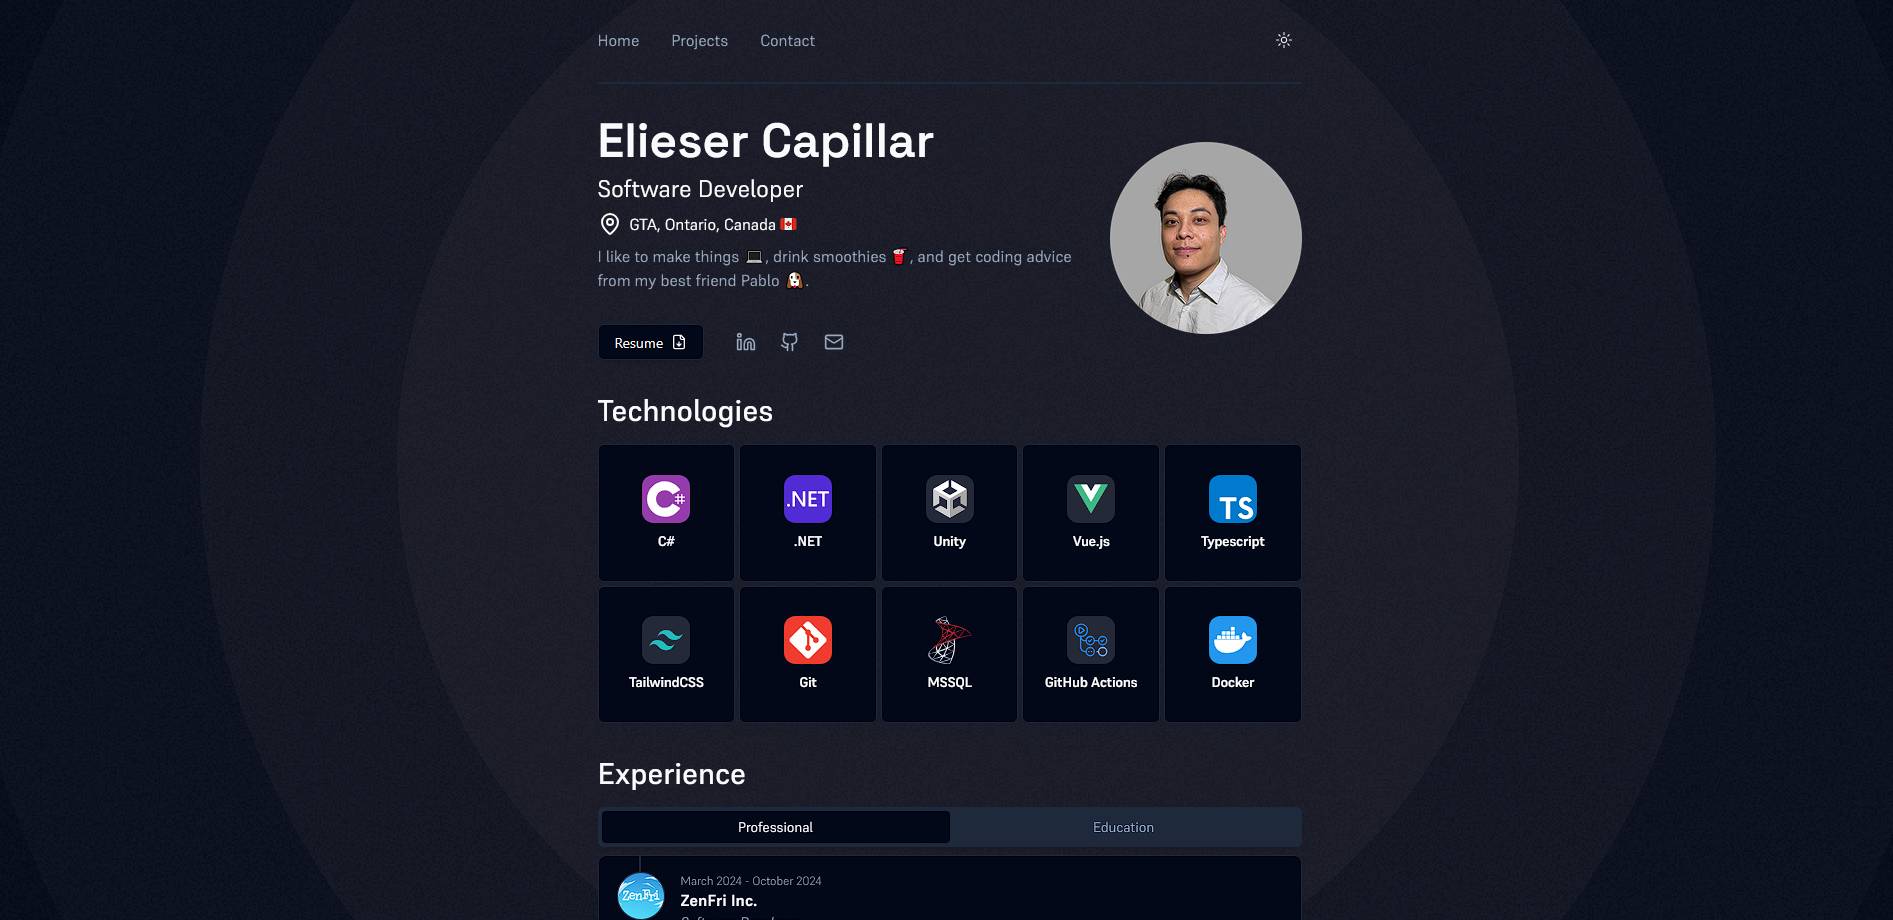
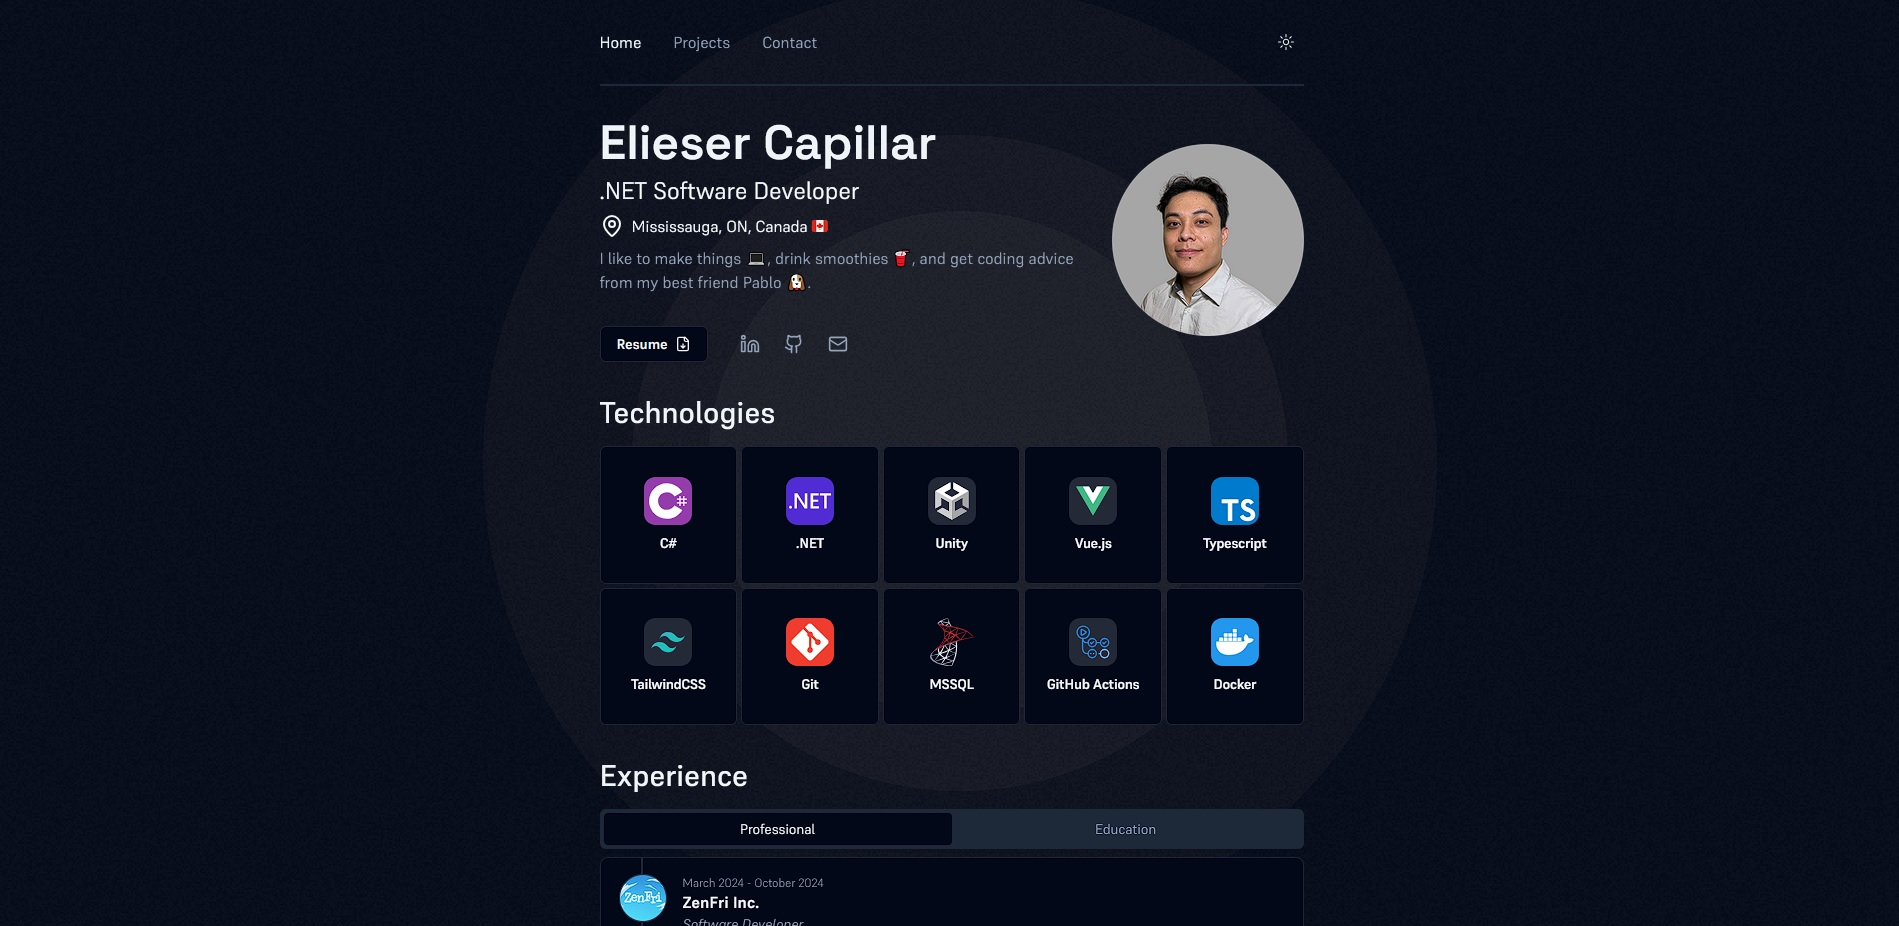
Updated location, and portfolio.png

diff --git a/src/components/HeroSection.vue b/src/components/HeroSection.vue
@@ -7,7 +7,7 @@
                     <h2 class="pt-2 text-2xl">.NET Software Developer</h2>
                     <div class="flex flex-row pt-2">
                         <Icon icon="lucide:map-pin" class="w-6 h-6"/>
-                        <p class="ml-2 text-md">Mississauga, ON, Canada 🇨🇦</p>
+                        <p class="ml-2 text-md">Toronto, ON, Canada 🇨🇦</p>
                     </div>
                     <p class="mt-2 text-muted-foreground">
                         I like to make things 💻, drink smoothies 🥤, 
